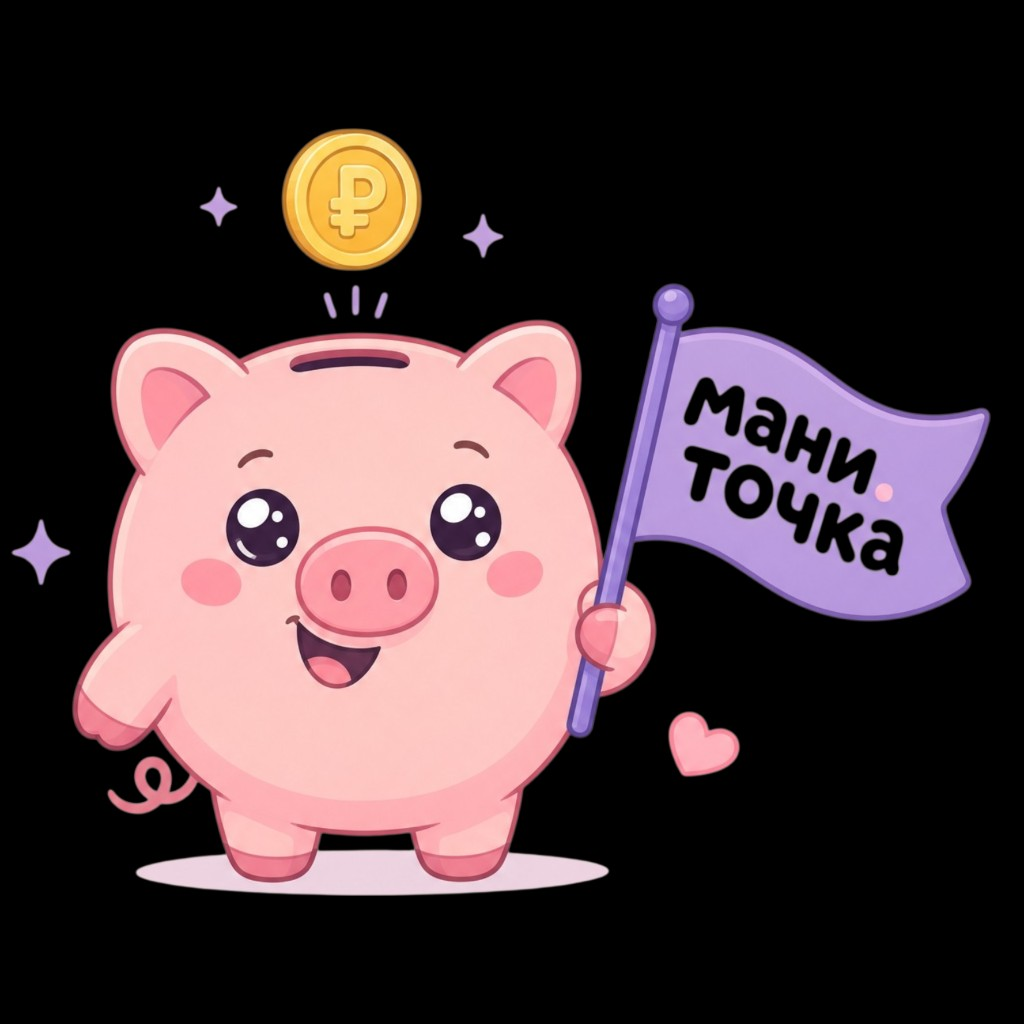
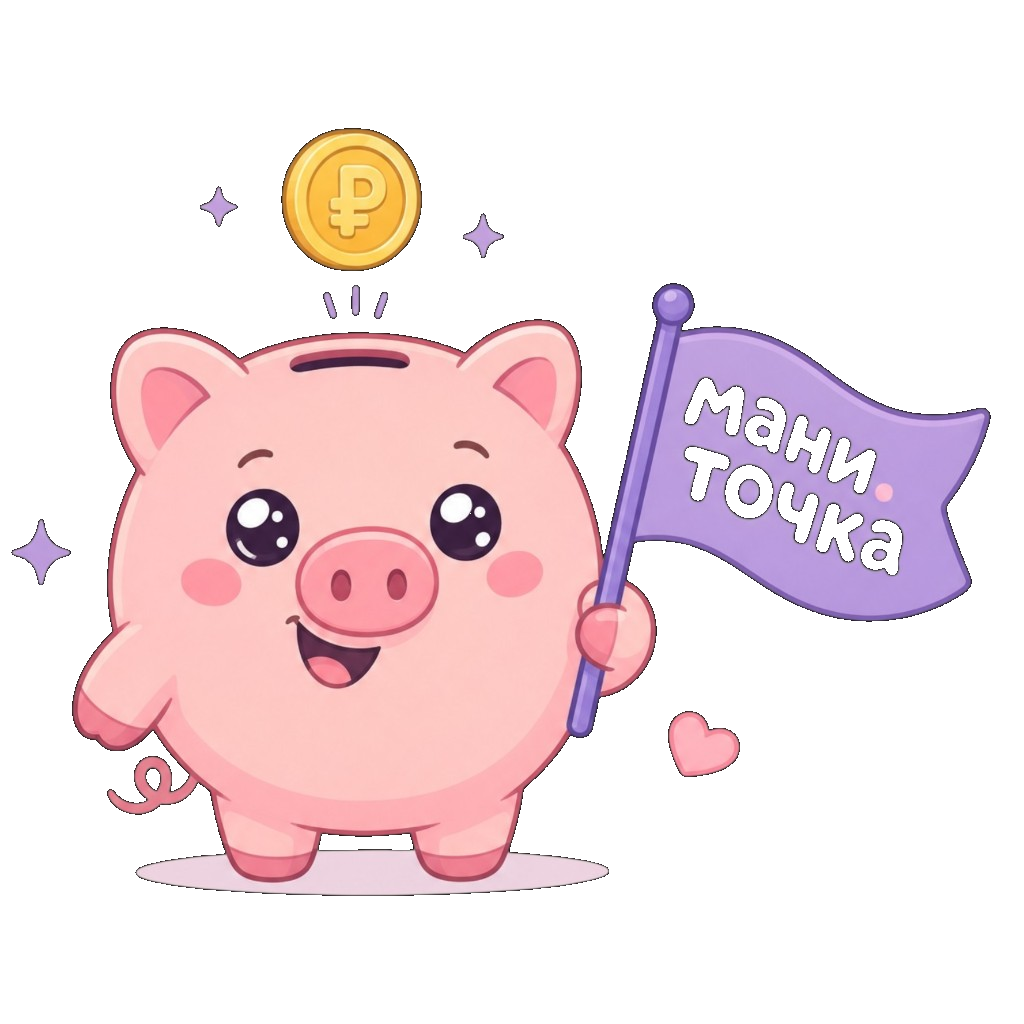
Polish onboarding layout, mascot transparency, and chart labels.
Center all onboarding steps, fix mascot PNG background, restyle good-news bars, add chart pill badges, and highlight мани.точка with theme primary color.

diff --git a/components/onboarding/onboarding-long-term-habits-step.tsx b/components/onboarding/onboarding-long-term-habits-step.tsx
@@ -1,5 +1,8 @@
 "use client"
 
+import { TrendingDown, TrendingUp } from "lucide-react"
+import { ManiTochka } from "@/components/brand/mani-tochka"
+
 interface OnboardingLongTermHabitsStepProps {
   name: string
 }
@@ -8,16 +11,15 @@ export function OnboardingLongTermHabitsStep({ name }: OnboardingLongTermHabitsS
   const displayName = name.trim() || "друг"
 
   return (
-    <div className="w-full">
-      <h2 className="text-center font-serif text-xl font-bold leading-snug tracking-tight text-foreground">
-        {displayName}, <span className="text-primary">мани.точка</span> формирует привычку копить
-        надолго
+    <div className="flex w-full flex-col items-center text-center">
+      <h2 className="max-w-[20rem] font-serif text-xl font-bold leading-snug tracking-tight text-foreground">
+        {displayName}, <ManiTochka /> формирует привычку копить надолго
       </h2>
 
-      <div className="mt-5 overflow-hidden rounded-[1.35rem] bg-white p-5 shadow-lg shadow-primary/10 ring-1 ring-black/[0.04]">
+      <div className="mt-5 w-full overflow-hidden rounded-[1.35rem] bg-white p-5 text-left shadow-lg shadow-primary/10 ring-1 ring-black/[0.04]">
         <p className="font-serif text-base font-semibold text-foreground/85">Ваши финансы</p>
 
-        <div className="relative mt-4">
+        <div className="relative mt-4 min-h-[11rem]">
           <svg
             viewBox="0 0 300 140"
             className="h-auto w-full"
@@ -30,6 +32,18 @@ export function OnboardingLongTermHabitsStep({ name }: OnboardingLongTermHabitsS
                 <stop offset="100%" stopColor="var(--success)" stopOpacity="0.05" />
               </linearGradient>
             </defs>
+            {[28, 52, 76, 100, 124].map((y) => (
+              <line
+                key={y}
+                x1="28"
+                y1={y}
+                x2="272"
+                y2={y}
+                stroke="var(--border)"
+                strokeWidth="0.75"
+                opacity="0.55"
+              />
+            ))}
             <line x1="28" y1="108" x2="272" y2="108" stroke="var(--border)" strokeWidth="1" />
             <path
               d="M 28 100 L 76 92 L 124 78 L 172 58 L 220 38 L 272 22 L 272 108 L 28 108 Z"
@@ -44,6 +58,8 @@ export function OnboardingLongTermHabitsStep({ name }: OnboardingLongTermHabitsS
               strokeLinejoin="round"
               className="onboarding-line-draw"
             />
+            <circle cx="272" cy="22" r="5" fill="var(--success)" />
+            <circle cx="272" cy="22" r="2.5" fill="white" />
             <polyline
               points="28,96 272,92"
               fill="none"
@@ -51,7 +67,7 @@ export function OnboardingLongTermHabitsStep({ name }: OnboardingLongTermHabitsS
               strokeWidth="2.5"
               strokeLinecap="round"
               strokeDasharray="7 5"
-              opacity="0.4"
+              opacity="0.45"
               className="onboarding-line-draw-delayed"
             />
             <text x="28" y="128" fill="var(--muted-foreground)" fontSize="10" fontWeight="600">
@@ -62,13 +78,16 @@ export function OnboardingLongTermHabitsStep({ name }: OnboardingLongTermHabitsS
             </text>
           </svg>
 
-          <div className="mt-1 flex flex-wrap items-center justify-center gap-2">
-            <span className="rounded-full bg-muted-foreground/15 px-3 py-1 text-[11px] font-semibold text-muted-foreground">
-              Обычные методы
+          <div className="absolute left-[4%] top-[46%] flex max-w-[42%] items-center gap-1 rounded-full bg-secondary px-2.5 py-1.5 shadow-sm">
+            <TrendingDown className="size-3.5 shrink-0 text-muted-foreground" strokeWidth={2.5} />
+            <span className="text-[10px] font-semibold leading-tight text-muted-foreground">
+              обычные методы
             </span>
-            <span className="rounded-full bg-[var(--success)] px-3 py-1 text-[11px] font-bold text-white shadow-sm shadow-[var(--success)]/30">
-              С мани.точкой
-            </span>
+          </div>
+
+          <div className="absolute right-[1%] top-[2%] flex max-w-[48%] items-center gap-1 rounded-full bg-[var(--success)] px-2.5 py-1.5 shadow-md shadow-[var(--success)]/25">
+            <TrendingUp className="size-3.5 shrink-0 text-white" strokeWidth={2.5} />
+            <span className="text-[10px] font-bold leading-tight text-white">с Мани.точкой</span>
           </div>
         </div>
 
@@ -76,8 +95,8 @@ export function OnboardingLongTermHabitsStep({ name }: OnboardingLongTermHabitsS
           <span className="text-xl leading-none" aria-hidden>
             ✨
           </span>
-          <p className="text-left text-sm font-medium leading-relaxed text-foreground">
-            82% пользователей мани.точки продолжают регулярно откладывать деньги даже спустя 6
+          <p className="text-sm font-medium leading-relaxed text-foreground">
+            82% пользователей <ManiTochka /> продолжают регулярно откладывать деньги даже спустя 6
             месяцев.
           </p>
         </div>

diff --git a/components/onboarding/onboarding-flow.tsx b/components/onboarding/onboarding-flow.tsx
@@ -137,7 +137,6 @@ function OptionButton({
 function OnboardingStepShell({
   step,
   stepEnterClass,
-  centered,
   canContinue,
   buttonLabel,
   onNext,
@@ -147,7 +146,6 @@ function OnboardingStepShell({
 }: {
   step: number
   stepEnterClass: string
-  centered?: boolean
   canContinue: boolean
   buttonLabel: string
   onNext: () => void
@@ -160,7 +158,7 @@ function OnboardingStepShell({
       <div className="flex min-h-[100dvh] flex-col items-center justify-center px-6 py-8 pb-[max(2rem,env(safe-area-inset-bottom))]">
         <div
           key={step}
-          className={`w-full max-w-sm ${centered ? "flex flex-col items-center text-center" : ""} ${stepEnterClass}`}
+          className={`flex w-full max-w-sm flex-col items-center text-center ${stepEnterClass}`}
         >
           {children}
           {!hideButton && (
@@ -307,7 +305,7 @@ export function OnboardingFlow() {
       <OnboardingProgress step={step} />
 
       {step === 0 && (
-        <OnboardingStepShell {...shellProps} centered>
+        <OnboardingStepShell {...shellProps}>
           <div className="mb-6">
             <OnboardingMascot size="hero" />
           </div>
@@ -320,7 +318,7 @@ export function OnboardingFlow() {
 
       {step === 1 && (
         <OnboardingStepShell {...shellProps}>
-          <div className="mb-6 flex size-16 items-center justify-center rounded-full bg-primary/15 shadow-sm shadow-primary/5">
+          <div className="mx-auto mb-6 flex size-16 items-center justify-center rounded-full bg-primary/15 shadow-sm shadow-primary/5">
             <Hand className="size-8 text-primary" strokeWidth={2.2} />
           </div>
           <h2 className="font-serif text-2xl font-bold text-foreground">Как тебя зовут?</h2>
@@ -339,7 +337,7 @@ export function OnboardingFlow() {
 
       {step === 2 && (
         <OnboardingStepShell {...shellProps}>
-          <div className="mb-6 flex size-16 items-center justify-center rounded-full bg-primary/15">
+          <div className="mx-auto mb-6 flex size-16 items-center justify-center rounded-full bg-primary/15">
             <Cake className="size-8 text-primary" strokeWidth={2.2} />
           </div>
           <h2 className="font-serif text-2xl font-bold text-foreground">Сколько тебе лет?</h2>
@@ -425,19 +423,19 @@ export function OnboardingFlow() {
       )}
 
       {step === 7 && (
-        <OnboardingStepShell {...shellProps} centered buttonLabel="Начать вести учёт 📊">
+        <OnboardingStepShell {...shellProps} buttonLabel="Начать вести учёт 📊">
           <OnboardingTracking30DaysStep />
         </OnboardingStepShell>
       )}
 
       {step === 8 && (
-        <OnboardingStepShell {...shellProps} centered>
+        <OnboardingStepShell {...shellProps}>
           <OnboardingGoodNewsStep />
         </OnboardingStepShell>
       )}
 
       {step === 9 && (
-        <OnboardingStepShell {...shellProps} centered>
+        <OnboardingStepShell {...shellProps}>
           <OnboardingLongTermHabitsStep name={draft.name.trim() || data.settings.userName} />
         </OnboardingStepShell>
       )}
@@ -515,7 +513,6 @@ export function OnboardingFlow() {
       {step === 12 && (
         <OnboardingStepShell
           {...shellProps}
-          centered
           buttonLabel="Беру на себя обязательство 💗"
           footerSubtitle="Обещание самой себе помогает довести дело до конца"
         >

diff --git a/components/onboarding/onboarding-good-news-step.tsx b/components/onboarding/onboarding-good-news-step.tsx
@@ -1,5 +1,6 @@
 "use client"
 
+import { ManiTochkaTitle } from "@/components/brand/mani-tochka"
 import { OnboardingMascot } from "@/components/onboarding/onboarding-mascot"
 
 export function OnboardingGoodNewsStep() {
@@ -11,16 +12,16 @@ export function OnboardingGoodNewsStep() {
 
       <h2 className="font-serif text-2xl font-bold text-foreground">У нас отличные новости!</h2>
       <p className="mt-3 max-w-[20rem] text-sm leading-relaxed text-muted-foreground">
-        Внедрите простые полезные привычки, и с Мани.точка вы легко превзойдёте средний результат
-        всего за 66 дней.
+        Внедрите простые полезные привычки, и с <ManiTochkaTitle /> вы легко превзойдёте средний
+        результат всего за 66 дней.
       </p>
 
-      <div className="mt-6 w-full rounded-block-sm bg-card p-5 shadow-md shadow-primary/8">
-        <div className="flex h-52 items-end justify-center gap-10 px-2">
+      <div className="mt-6 w-full px-1">
+        <div className="flex h-52 items-end justify-center gap-10">
           <div className="flex flex-col items-center gap-3">
             <div className="flex h-44 w-[4.5rem] items-end justify-center">
               <div
-                className="relative w-full rounded-t-2xl bg-[var(--success)] onboarding-bar-rise shadow-lg shadow-[var(--success)]/25"
+                className="relative w-full rounded-[30px] bg-[var(--success)] onboarding-bar-rise shadow-lg shadow-[var(--success)]/20"
                 style={{ height: "86%", animationDelay: "150ms" }}
               >
                 <span className="absolute -top-7 left-1/2 -translate-x-1/2 whitespace-nowrap font-serif text-lg font-bold text-[var(--success)]">
@@ -35,7 +36,7 @@ export function OnboardingGoodNewsStep() {
           <div className="flex flex-col items-center gap-3">
             <div className="flex h-44 w-[4.5rem] items-end justify-center">
               <div
-                className="relative w-full rounded-t-2xl bg-muted-foreground/20 onboarding-bar-rise"
+                className="relative w-full rounded-[30px] bg-muted-foreground/25 onboarding-bar-rise"
                 style={{ height: "50%", animationDelay: "350ms" }}
               >
                 <span className="absolute -top-7 left-1/2 -translate-x-1/2 whitespace-nowrap font-serif text-lg font-bold text-muted-foreground">

diff --git a/components/brand/mani-tochka.tsx b/components/brand/mani-tochka.tsx
@@ -1,0 +1,7 @@
+export function ManiTochka({ className = "" }: { className?: string }) {
+  return <span className={`font-semibold text-primary ${className}`.trim()}>мани.точка</span>
+}
+
+export function ManiTochkaTitle({ className = "" }: { className?: string }) {
+  return <span className={`font-semibold text-primary ${className}`.trim()}>Мани.точка</span>
+}

diff --git a/components/onboarding/onboarding-mascot.tsx b/components/onboarding/onboarding-mascot.tsx
@@ -15,14 +15,14 @@ export function OnboardingMascot({ size = "hero" }: { size?: keyof typeof SIZE_M
 
   return (
     <div
-      className={`flex ${box} items-center justify-center rounded-full bg-white p-2 shadow-lg shadow-primary/15 ring-1 ring-black/[0.04]`}
+      className={`relative flex ${box} shrink-0 items-center justify-center overflow-hidden rounded-full bg-white p-1.5 shadow-lg shadow-primary/15 ring-1 ring-black/[0.04]`}
     >
       <Image
         src="/mascot.png"
         alt="Маниточка"
         width={image}
         height={image}
-        className="h-full w-full object-contain mix-blend-multiply"
+        className="h-[92%] w-[92%] object-contain"
         priority
       />
     </div>

diff --git a/components/theme/theme-picker.tsx b/components/theme/theme-picker.tsx
@@ -22,13 +22,13 @@ export function ThemePicker({ compact, showPreview = true }: ThemePickerProps) {
 
 export function OnboardingThemeStep() {
   return (
-    <div className="flex w-full flex-col">
+    <div className="flex w-full flex-col items-center text-center">
       <div className="mb-4 flex size-16 items-center justify-center rounded-full bg-primary/15 text-3xl">
         🎨
       </div>
       <h2 className="font-serif text-2xl font-bold text-foreground">Выбери свою тему 🎨</h2>
       <p className="mt-2 text-sm text-muted-foreground">Настрой приложение под себя</p>
-      <div className="mt-5">
+      <div className="mt-5 w-full">
         <ThemePicker />
       </div>
     </div>